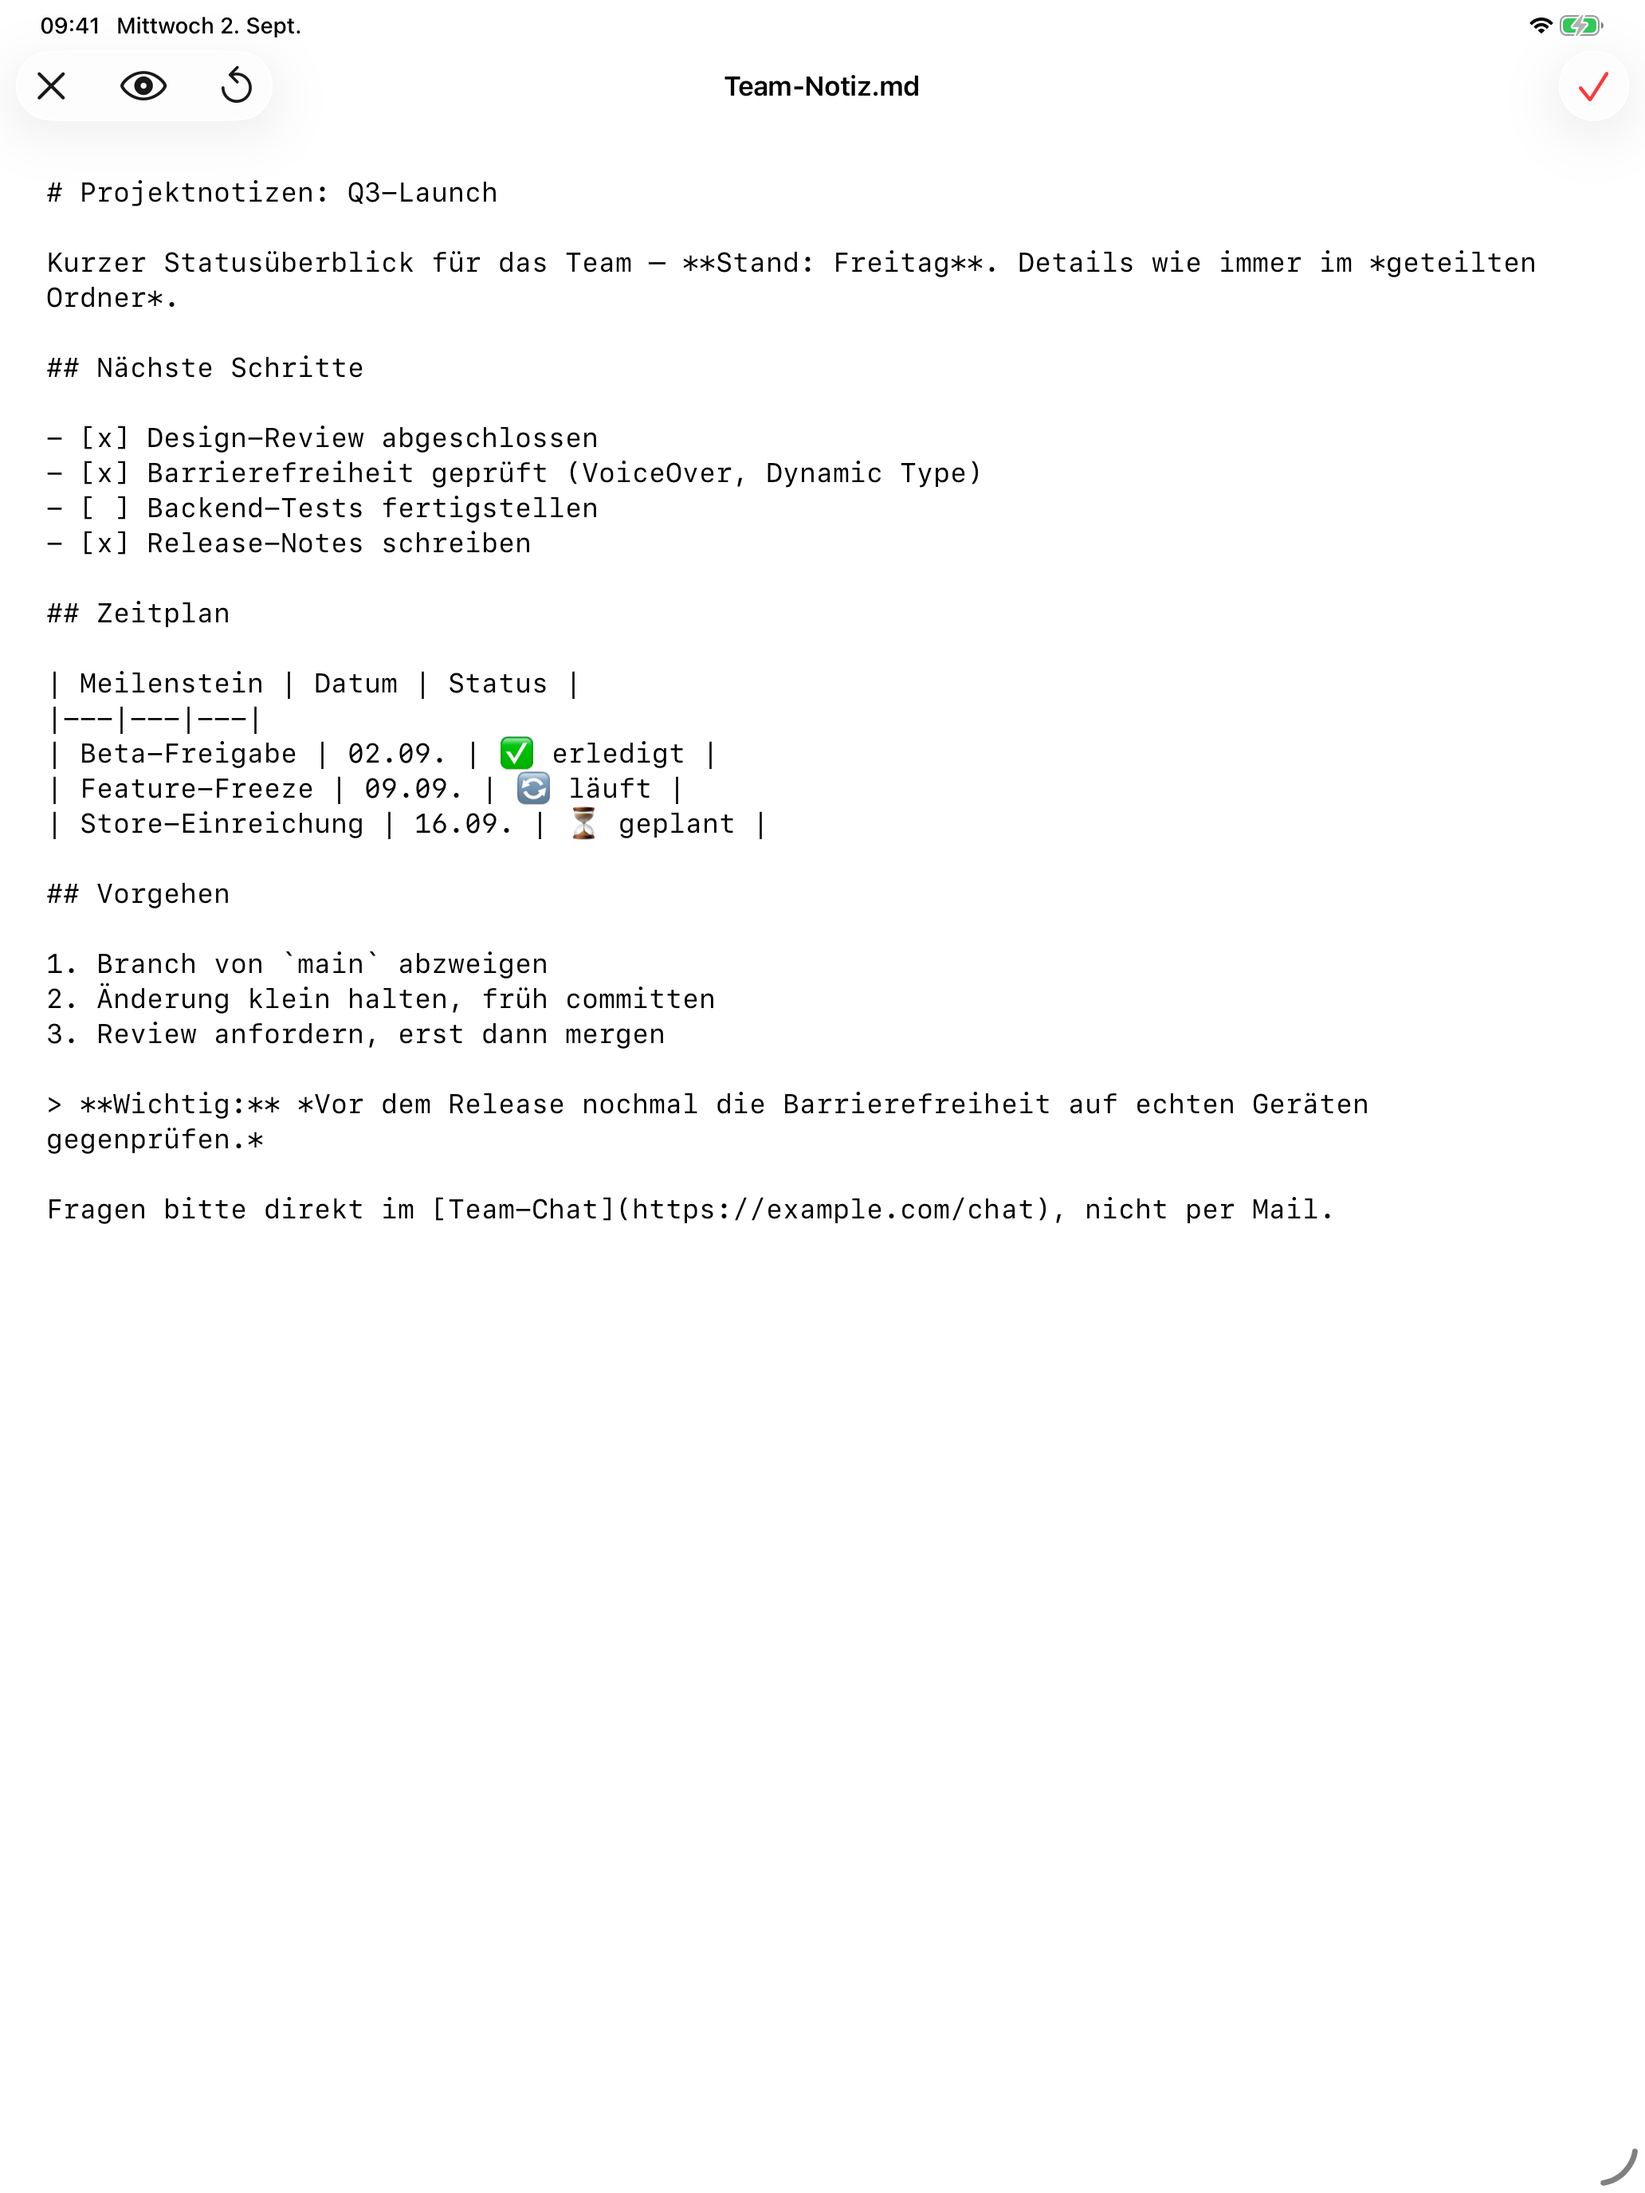
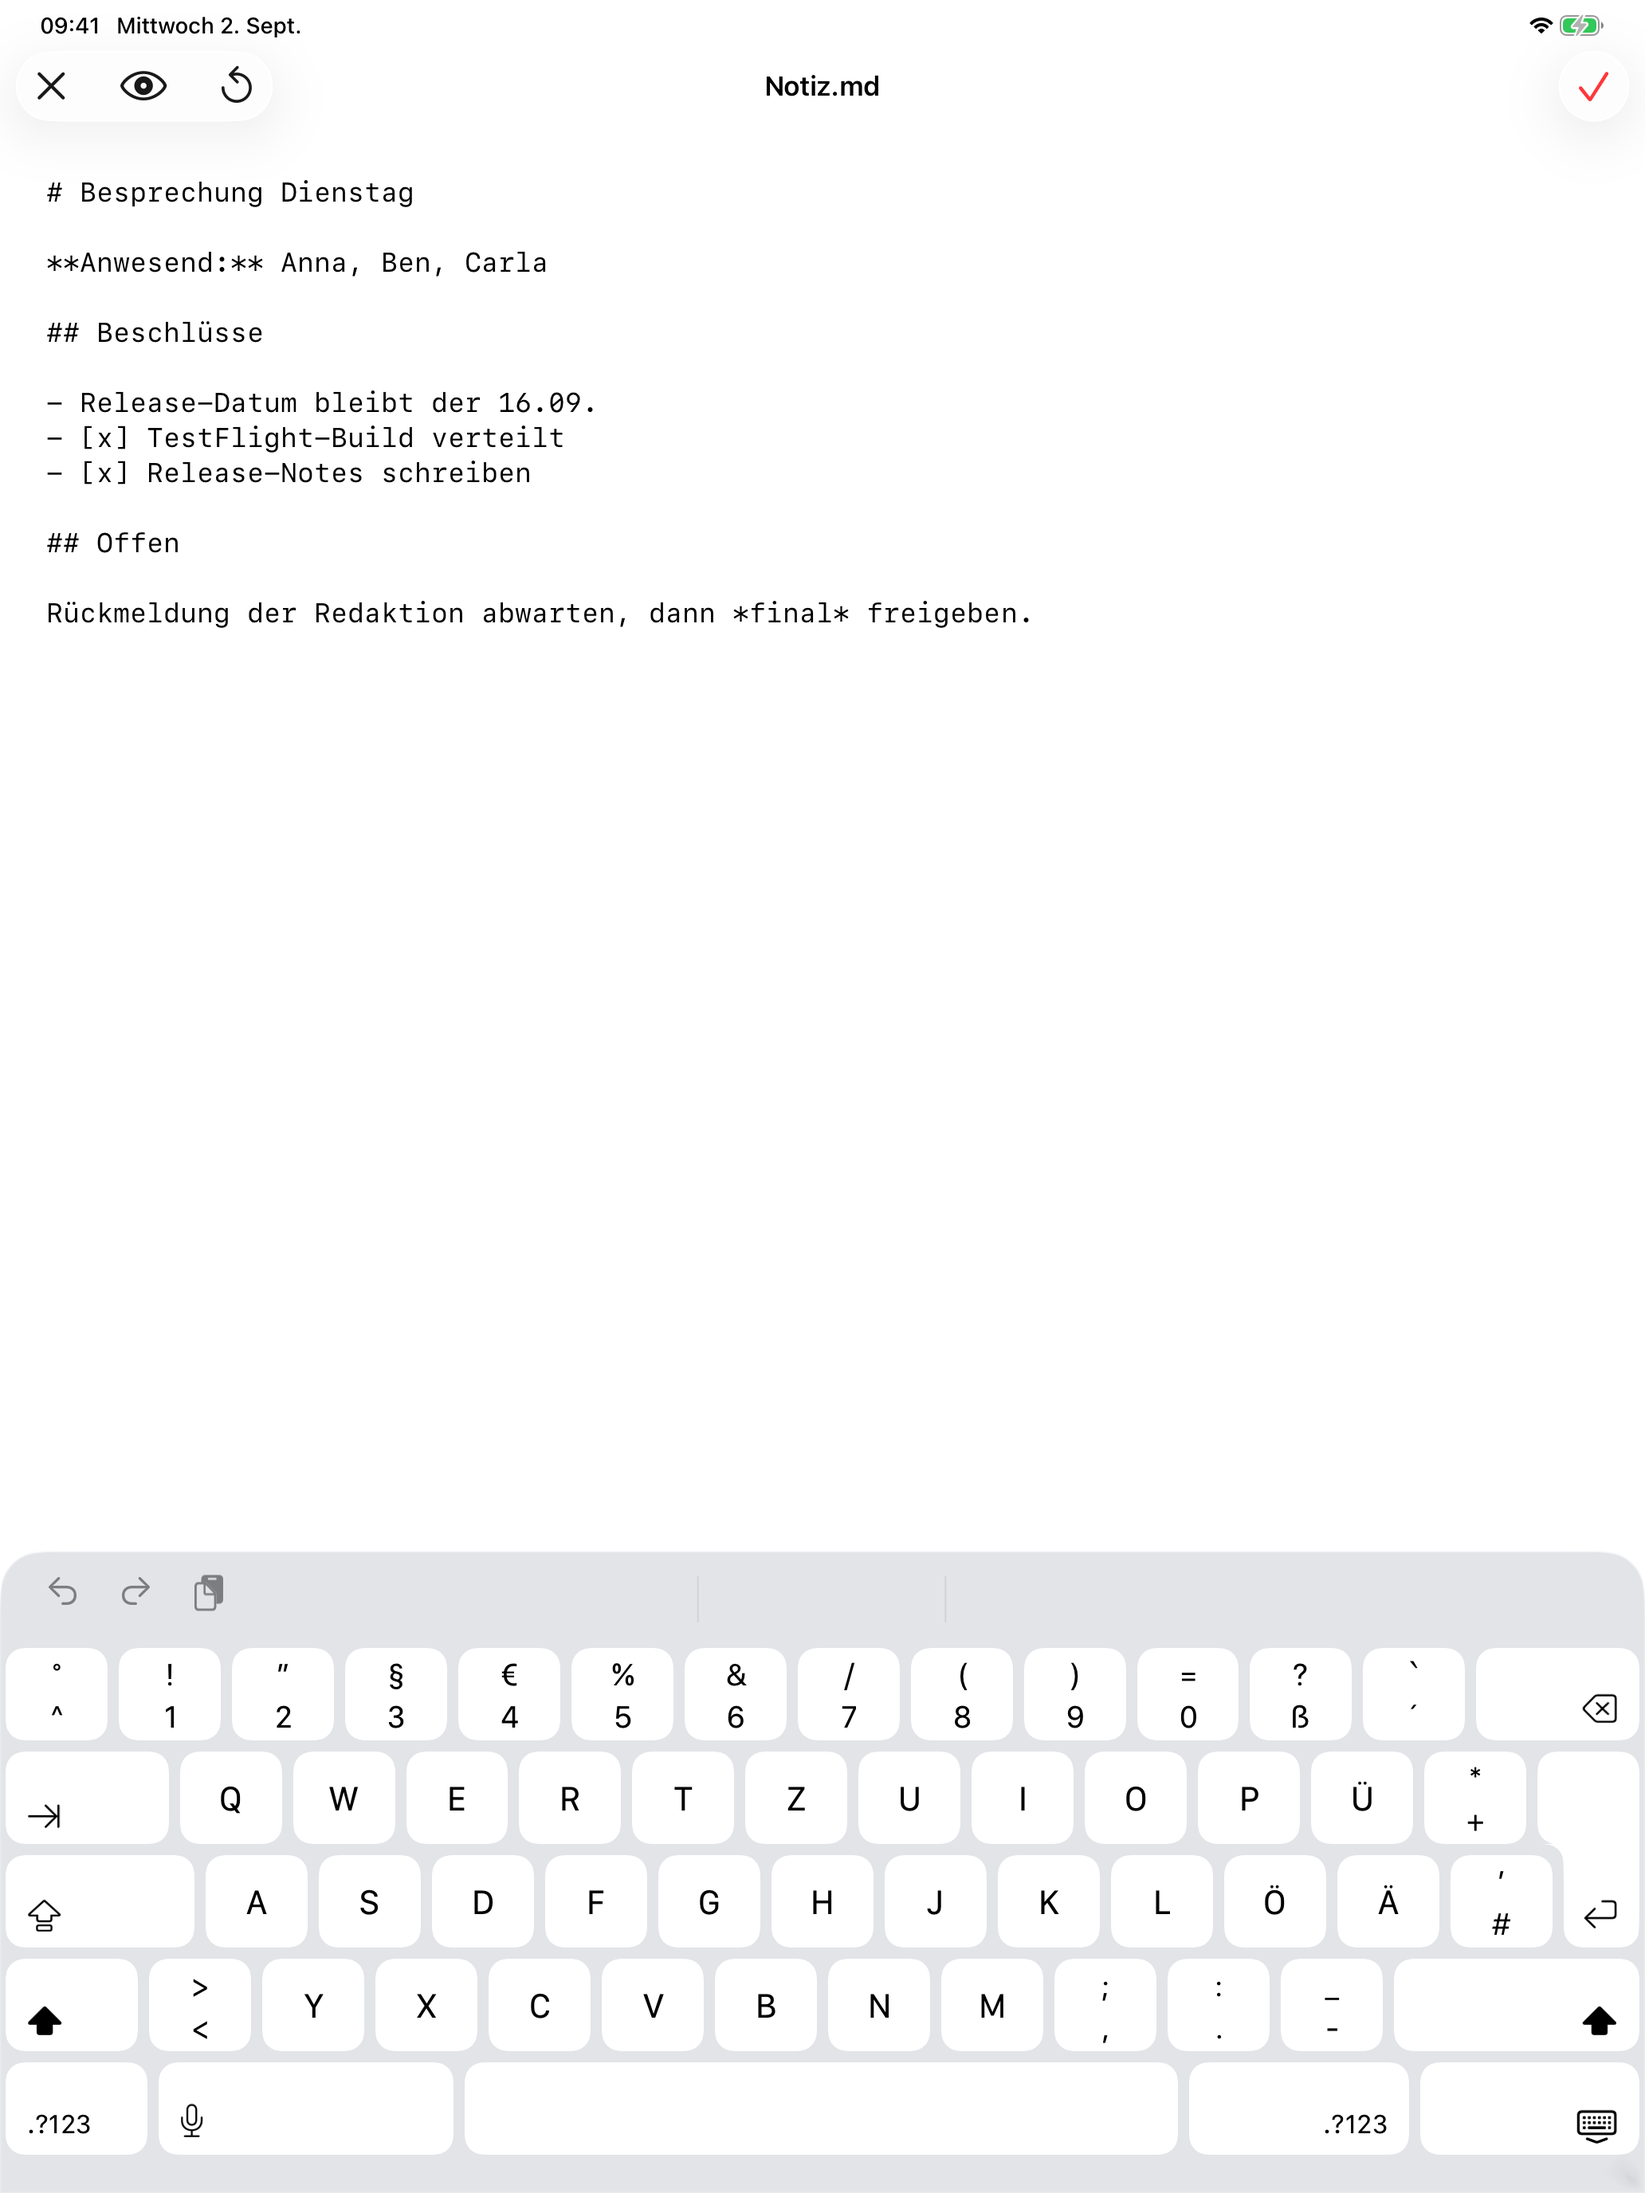
Screenshot 02-bearbeiten: mit eingeblendeter Tastatur
iPhone 6.9" + iPad 13", jeweils mit Software-Tastatur (inkl. Vorschlagszeile),
Editor auf Demo-Notiz, roter Speichern-Haken aktiv, saubere Statusleiste.

- DocumentView: Screenshot-Startargument fokussiert den Editor jetzt wie im
  Normalbetrieb (der #if-DEBUG-Fokus-Guard entfällt); die Tastatur wird beim
  Screenshot-Lauf per Cmd+K sichtbar gemacht (simctl unterdrückt sie sonst)
- SKILL.md: Cmd+K-Schritt + Einzelsprachen-Tastatur + Inbox-Kollision dokumentiert
- Tests 15/15 grün

Claude-Session: https://claude.ai/code/session_016B8ZJyWpbnNePgG14TJarU

diff --git a/md Viewer/md Viewer/DocumentView.swift b/md Viewer/md Viewer/DocumentView.swift
@@ -184,12 +184,7 @@ struct DocumentView: View {
             // Requesting focus only once the editor is actually in the hierarchy;
             // setting it in the "Bearbeiten" action (before this view mounts) is
             // dropped by SwiftUI and leaves the keyboard down.
-            .onAppear {
-                #if DEBUG
-                if ProcessInfo.processInfo.arguments.contains("-mdviewerScreenshotEdit") { return }
-                #endif
-                editorFocused = true
-            }
+            .onAppear { editorFocused = true }
     }
 
     private func preview(markdown: String) -> some View {

diff --git a/.claude/skills/run-md-viewer/SKILL.md b/.claude/skills/run-md-viewer/SKILL.md
@@ -114,9 +114,29 @@ active) and no keyboard. Used for `App-Store-Screenshots/*/02-bearbeiten.png`.
 
 ```bash
 xcrun simctl launch <udid> com.eribert.md-Viewer -mdviewerScreenshotEdit
-xcrun simctl openurl <udid> "file://<abs path to a .md>"
+xcrun simctl openurl <udid> "file://<abs path to a .md>"   # abs path, spaces ok
+# software keyboard: it stays hidden under simctl until you toggle it —
+open -a Simulator --args -CurrentDeviceUDID <udid>
+osascript -e 'tell application "Simulator" to activate' \
+  -e 'delay 0.7' \
+  -e 'tell application "System Events" to keystroke "k" using command down'  # I/O ▸ Keyboard ▸ Toggle Software Keyboard
 xcrun simctl io <udid> screenshot out.png
 ```
+
+For `02-bearbeiten.png` the keyboard is shown (Cmd+K above). The demo edit
+in the hook flips `- [ ] Release-Notes schreiben` → `- [x] …` in
+`demo-dokumente/Notiz.md`, which is short enough that the heading stays
+visible above the keyboard and the red Save checkmark is active.
+
+Gotchas that cost time here:
+- `@FocusState = true` alone does **not** raise the software keyboard under
+  `simctl`; the sim treats a hardware keyboard as connected. Cmd+K via
+  System Events (a keystroke, not a click — those work) toggles it.
+- A fresh sim shows a "Type Deutsch und Englisch" onboarding sheet over the
+  keyboard on first use. Force a single language first:
+  `xcrun simctl spawn <udid> defaults write "Apple Global Domain" AppleKeyboards -array "de_DE@hw=German-Standard;sw=QWERTZ-German"` then reboot.
+- iOS renames on Inbox collision (`Notiz-1.md`); `simctl uninstall` +
+  reinstall between runs to keep the title clean.
 
 Screenshot sim sizes: iPhone 6.9" = iPhone 17 Pro Max (1320×2868), iPad
 13" = iPad Pro 13-inch (2064×2752). Clean status bar via
